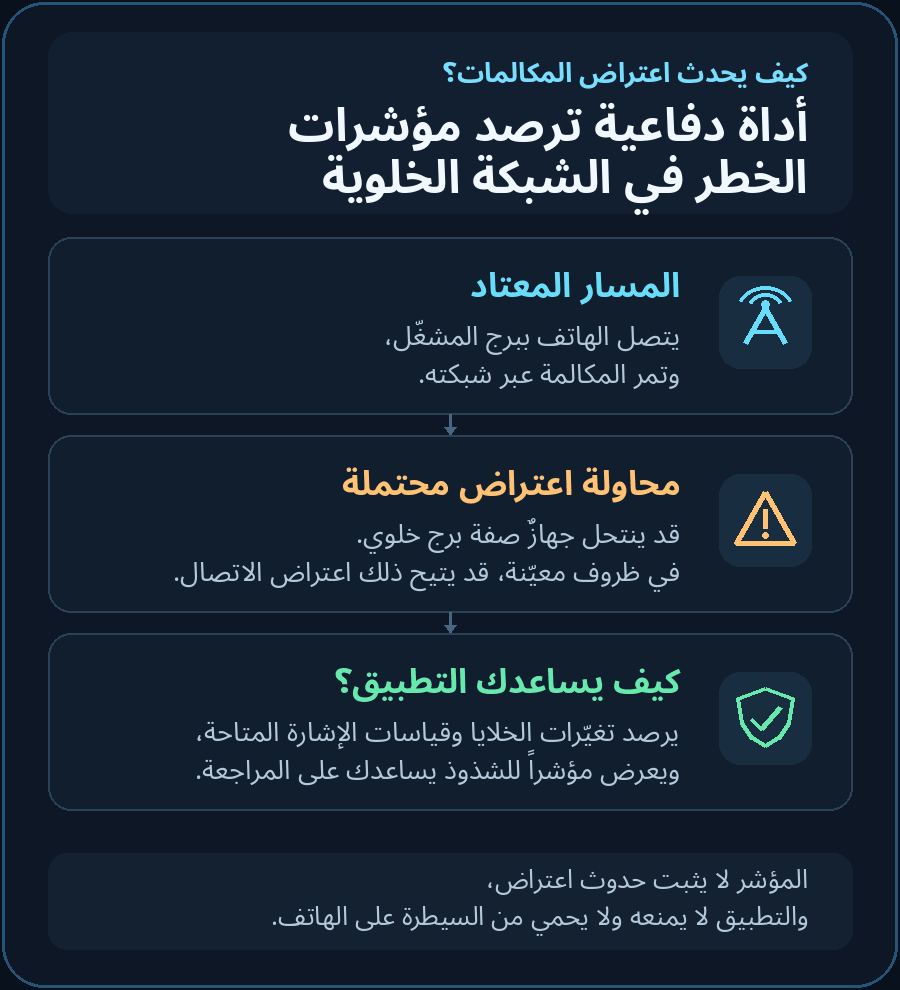
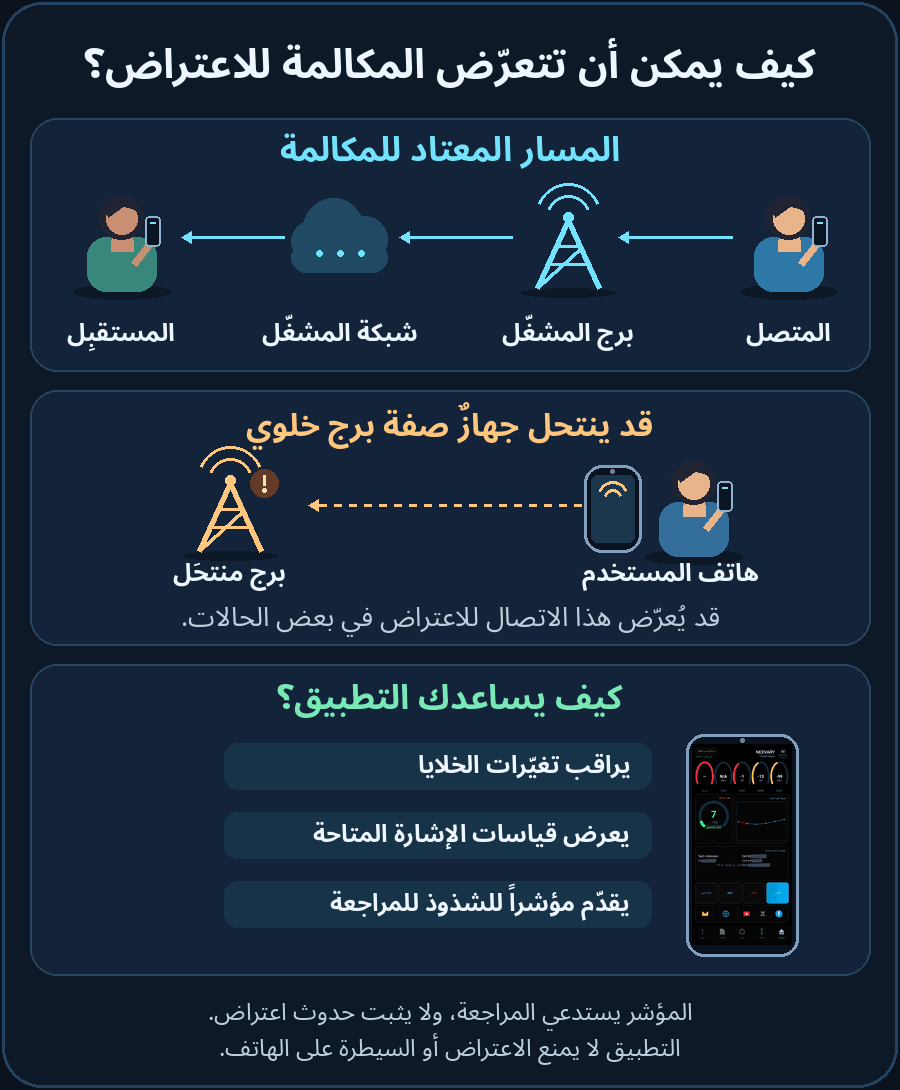
Illustrate cell network paths and align bilingual cards side by side

diff --git a/README.md b/README.md
@@ -3,10 +3,12 @@
 <p align="center"><strong>وعي بالشبكات الخلوية على جهازك · On-device cellular awareness</strong></p>
 <p align="center"><a href="#العربية">العربية</a> · <a href="#english">English</a> · <a href="https://github.com/nexvary/NEXVARY-Tower/releases/tag/v0.7.0">Release 0.7.0</a></p>
 
-<p align="center">
-  <a href="https://github.com/nexvary/NEXVARY-Tower/releases/download/v0.7.0/NEXVARY-Tower-Guard-0.7.0-vc10-release.apk"><img src="docs/media/download-ar.png" width="390" alt="تحميل تطبيق NEXVARY Tower Guard لأندرويد"></a>
-  <a href="https://github.com/nexvary/NEXVARY-Tower/releases/download/v0.7.0/NEXVARY-Tower-Guard-0.7.0-vc10-release.apk"><img src="docs/media/download-en.png" width="390" alt="Download the signed NEXVARY Tower Guard Android APK"></a>
-</p>
+<table align="center">
+  <tr>
+    <td width="50%" align="center"><a href="https://github.com/nexvary/NEXVARY-Tower/releases/download/v0.7.0/NEXVARY-Tower-Guard-0.7.0-vc10-release.apk"><img src="docs/media/download-ar.png" width="390" alt="تحميل تطبيق NEXVARY Tower Guard لأندرويد"></a></td>
+    <td width="50%" align="center"><a href="https://github.com/nexvary/NEXVARY-Tower/releases/download/v0.7.0/NEXVARY-Tower-Guard-0.7.0-vc10-release.apk"><img src="docs/media/download-en.png" width="390" alt="Download the signed NEXVARY Tower Guard Android APK"></a></td>
+  </tr>
+</table>
 
 <p align="center"><a href="https://github.com/nexvary/NEXVARY-Tower/releases/download/v0.7.0/NEXVARY-Tower-Guard-0.7.0-vc10-release.apk"><strong>تحميل مباشر للـAPK · Direct APK download</strong></a><br>Android 10+ · 0.7.0 · Build 10</p>
 
@@ -14,10 +16,12 @@
 
 <p align="center"><strong>Tower Guard أداة دفاعية ترصد مؤشرات الخطر في الشبكة الخلوية.</strong><br><strong>Tower Guard is a defensive tool for spotting unusual cellular activity.</strong></p>
 
-<p align="center">
-  <a href="docs/media/cellular-awareness-ar.png"><img src="docs/media/cellular-awareness-ar.png" width="385" alt="شرح عربي لمسار المكالمة، ومحاولة اعتراض محتملة، ودور Tower Guard في رصد تغيّرات الخلايا والإشارة وعرض مؤشر الشذوذ"></a>
-  <a href="docs/media/cellular-awareness-en.png"><img src="docs/media/cellular-awareness-en.png" width="385" alt="English guide to the usual call path, possible interception, and how Tower Guard flags unusual cellular changes"></a>
-</p>
+<table align="center">
+  <tr>
+    <td width="50%" align="center"><a href="docs/media/cellular-awareness-ar.png"><img src="docs/media/cellular-awareness-ar.png" width="385" alt="شرح عربي لمسار المكالمة، ومحاولة اعتراض محتملة، ودور Tower Guard في رصد تغيّرات الخلايا والإشارة وعرض مؤشر الشذوذ"></a></td>
+    <td width="50%" align="center"><a href="docs/media/cellular-awareness-en.png"><img src="docs/media/cellular-awareness-en.png" width="385" alt="English guide to the usual call path, possible interception, and how Tower Guard flags unusual cellular changes"></a></td>
+  </tr>
+</table>
 
 <p align="center"><a href="https://sls.eff.org/technologies/cell-site-simulators-imsi-catchers">عن محاكيات الأبراج الخلوية · About cell-site simulators (EFF)</a></p>
 
